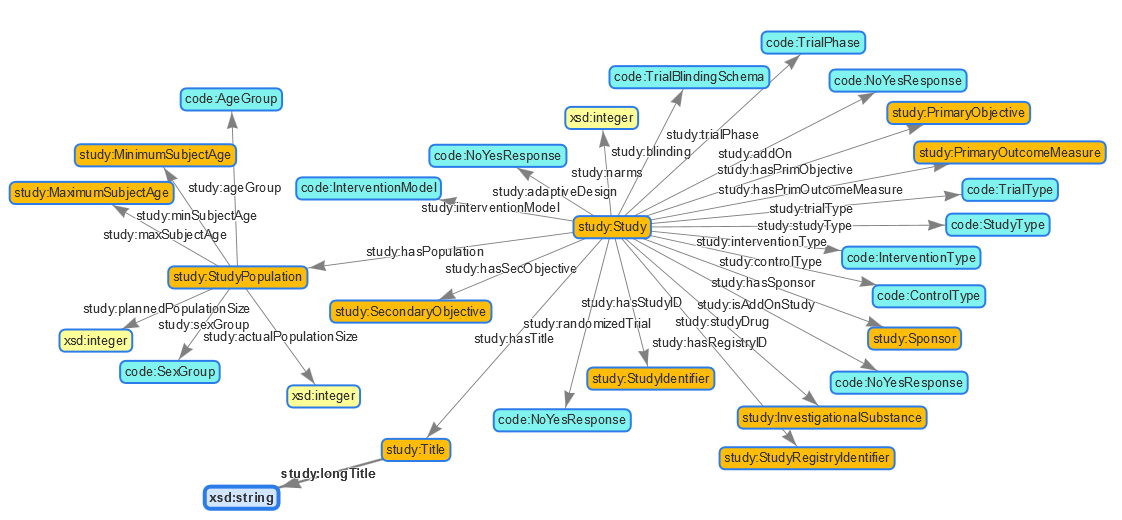
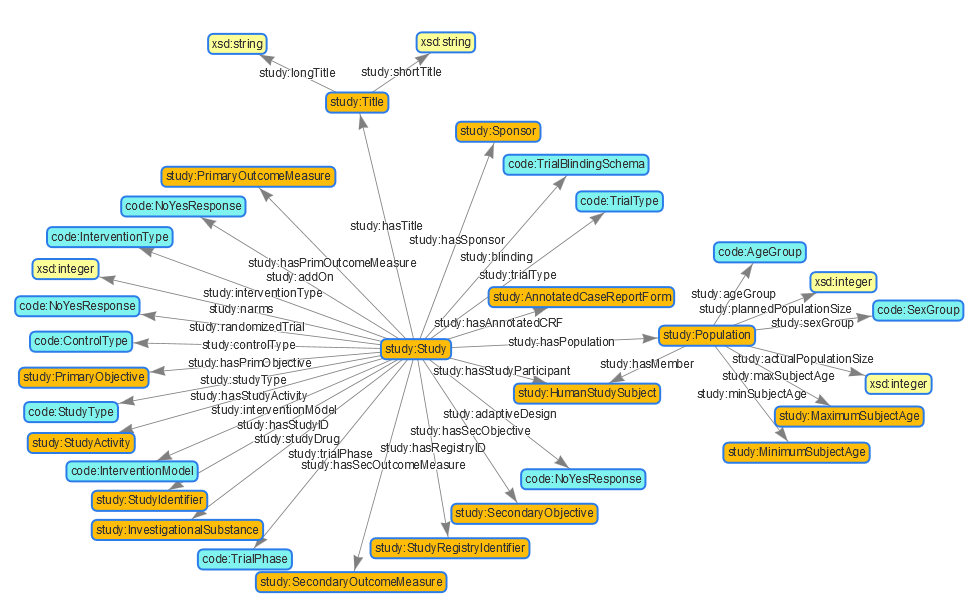
documentation update Hands on TS & Questions

diff --git a/doc/questions.md b/doc/questions.md
@@ -7,10 +7,89 @@ Please ask your questions related to data or ontologies here to get answers from
 
 ### Question: How to query a SPIN rule?
 
-SPIN rules, like the one for the MedDRA extract are modeled. How can this spin rule query be executed to receive the content? Same we have for domain load, don't we? Or do I have to reconstruct the query and execute this?
+SPIN rules, like the one for the [MedDRA extract](https://github.com/phuse-org/CTDasRDF/blob/master/doc/images/Meddra-Query.png) are modeled. How can this spin rule query be executed to receive the content? Same we have for domain load, don't we? Or do I have to reconstruct the query and execute this as SPARQL query?
 
 ## MedDRA Mapping
 
 ### Question: How to deal with quotes in string?
 
 There seems to be three LLT codes having a quote in the label, e.g. Feeling "cool". The R program removes all quotes, so the string would be 'Feeling cool', currently the SAS program uses the masking of \" to mask the quote. Which way should we go?
+
+## Protocol Drug&Dosage - Ontology / Instantiation
+
+### Question: Can you please check and update the Ontology / Instances?
+
+It seems the ontology does not fit the instances in "cdiscpilot01-protocol.ttl".
+
+According "study.ttl" there are some major proerties and connections missing for study:SubstanceQuantity.
+
+![Connections according Instances](./images/questions_TS_DRUG_SubstanceQuantityVis.png)
+
+```
+study:SubstanceQuantity
+  rdf:type owl:Class ;
+  rdfs:subClassOf study:Entity ;
+  skos:prefLabel "Substance quantity" ;
+```
+
+In the instances the dosage information are available through study:SubstanceQuantity in "cdiscpilot01-protocol.ttl".
+
+![Connections according Instances](./images/questions_TS_DRUG_InstanceClassVis.png)
+
+```
+cd01p:SubstanceQuantity_1
+  rdf:type code:SubstanceQuantity ;
+  rdf:type study:SubstanceQuantity ;
+  skos:prefLabel "Substance quantity 1" ;
+  code:hasIngredient code:Substance_Xanomeline ;
+  code:hasUnit code:Unit_mg ;
+  code:hasValue 0 ;
+```
+
+## Protocol Population - Ontology / Instantiation
+
+### Question: child attibutes located at mother - intended or to-change?
+
+As we have two childs of study:Population (study:StudyPopulation & study:EnrolledPopulation), should we have all attributes on the "mother", even though these might only be applicable for one of the childs and not all, e.g. plannedPopulation Size?
+
+![Population](./images/hands_on_triples_08_a.png)
+
+### Question: Population attributes in Instances, but not in Ontology - need for change?
+
+In the instances, we map from study:StudyPopulation through study:hasSite and study:healthySubject. According study.ttl this is not a valid route as the population is no 
+
+Instances cdiscpilot01-protocol.ttl:
+
+```
+cd01p:StudyPopulation_CDISCPILOT01
+  rdf:type study:StudyPopulation ;
+  skos:prefLabel "Study population CDISCPILOT01" ;
+  study:ageGroup code:AgeGroup_ADULT ;
+  study:ageGroup code:AgeGroup_ELDERLY ;
+  study:hasSite cd01p:Site_701 ;
+  study:healthySubject sdtmterm:NoYesResponse_N ;
+  study:maxSubjectAge <https://w3id.org/phuse/code#PlannedSubjectAge_NULL.PINF> ;
+  study:minSubjectAge code:PlannedSubjectAge_P50Y ;
+  study:sexGroup sdtmterm:SexGroup_BOTH ;
+.
+```
+
+Ontology study.ttl:
+
+```
+study:hasSite
+  rdf:type owl:ObjectProperty ;
+  rdfs:comment "" ;
+  rdfs:domain study:Party ;
+  rdfs:range study:Site ;
+  skos:definition "The organization (e.g. hospital, clinic) where a Human Study Subject goes to participate in many Study Activities." ;
+  skos:prefLabel "has Site" ;
+.
+
+study:healthySubject
+  rdf:type owl:ObjectProperty ;
+  rdfs:domain study:Party ;
+  rdfs:range code:NoYesResponse ;
+  skos:prefLabel "healthy subject" ;
+.
+```

diff --git a/doc/HandsOnCreateTriplesFromOWL.md b/doc/HandsOnCreateTriplesFromOWL.md
@@ -14,6 +14,7 @@ Date         | Comment
 2018-11-23   | Documentation creation (KG)
 2018-11-26   | Further Documentation (KG)
 2019-01-04   | Updates (KG)
+2019-05-09   | Updates (KG)
 
 
 ## Overview
@@ -219,7 +220,7 @@ The Visualization is done through r/vis/vis_stardog_dbs.R in section "create Ont
 
 ![Figure: Ontology for simple mappings](./images/hands_on_triples_04.png)
 
-So we are able to map 65% of all observations after this step in our TS domain and are missing 35% observations which are 17 in numbers. But where should the other observations be mapped to? Some might be missing as the ontology is under development, but some are already available, but can only be mapped when considering the sub-class connections.
+So we are able to map more than half of all observations from Trial Summary after this step in our domain and are missing just a few observations. But where should the other observations be mapped to? Some might be missing as the ontology is under development, but some are already available, but can only be mapped when considering the sub-class connections.
 
 ### Connecting sub-class hierarchies
 
@@ -282,18 +283,39 @@ prot:Study_CDISCPILOT01
 
 ### Populations
 
-Content wise the two items for the planned population size and the actual population size are not applicable for the complete population size, but only contain those subjects which are in the enrolled population. For this it has been decided that a study has two different populations, the StudyPopulation containing all subjects and the EnrolledPopulation containing only attributes for enrolled subjects.
+When looking also into sub-class connections of the model, there are two different types of populations available, the StudyPopulation and the EnrolledPopulation. These have different meanings and content and are for this two different items. So properties only belong to the StudyPopulation as the complete population and others are available for the EnrolledPopulation.
 
-So we create our study with two populations:
+![Figure: Ontology details for Population](./images/hands_on_triples_08_a.png)
+
+The final mapping considers two populations with different attributes. So we create our study with two populations:
 
 ```
 prot:Study_CDISCPILOT01
-   study:hasPopulation  prot:EnrolledPopulation_CDISCPILOT01;
-   study:hasPopulation  prot:StudyPopulation_CDISCPILOT01;
+   study:hasPopulation prot:EnrolledPopulation_CDISCPILOT01;
+   study:hasPopulation prot:StudyPopulation_CDISCPILOT01;
 .
 ```
 
-And then attach the attributes to the corresponding instance. This looks like the following:
+And then create the corresponding attributes for the populations:
+
+```
+cd01p:EnrolledPopulation_CDISCPILOT01
+  rdf:type study:EnrolledPopulation ;
+  skos:prefLabel "Enrolled population CDISCPILOT01" ;
+  study:actualPopulationSize 254 ;
+  study:plannedPopulationSize 300 ;
+.
+
+cd01p:StudyPopulation_CDISCPILOT01
+  rdf:type study:StudyPopulation ;
+  skos:prefLabel "Study population CDISCPILOT01" ;
+  study:ageGroup code:AgeGroup_ADULT ;
+  study:ageGroup code:AgeGroup_ELDERLY ;
+  study:maxSubjectAge <https://w3id.org/phuse/code#PlannedSubjectAge_NULL.PINF> ;
+  study:minSubjectAge code:PlannedSubjectAge_P50Y ;
+  study:sexGroup sdtmterm:SexGroup_BOTH ;
+.
+```
 
 ![Figure: Using two different populations](./images/hands_on_triples_08.png)
 
